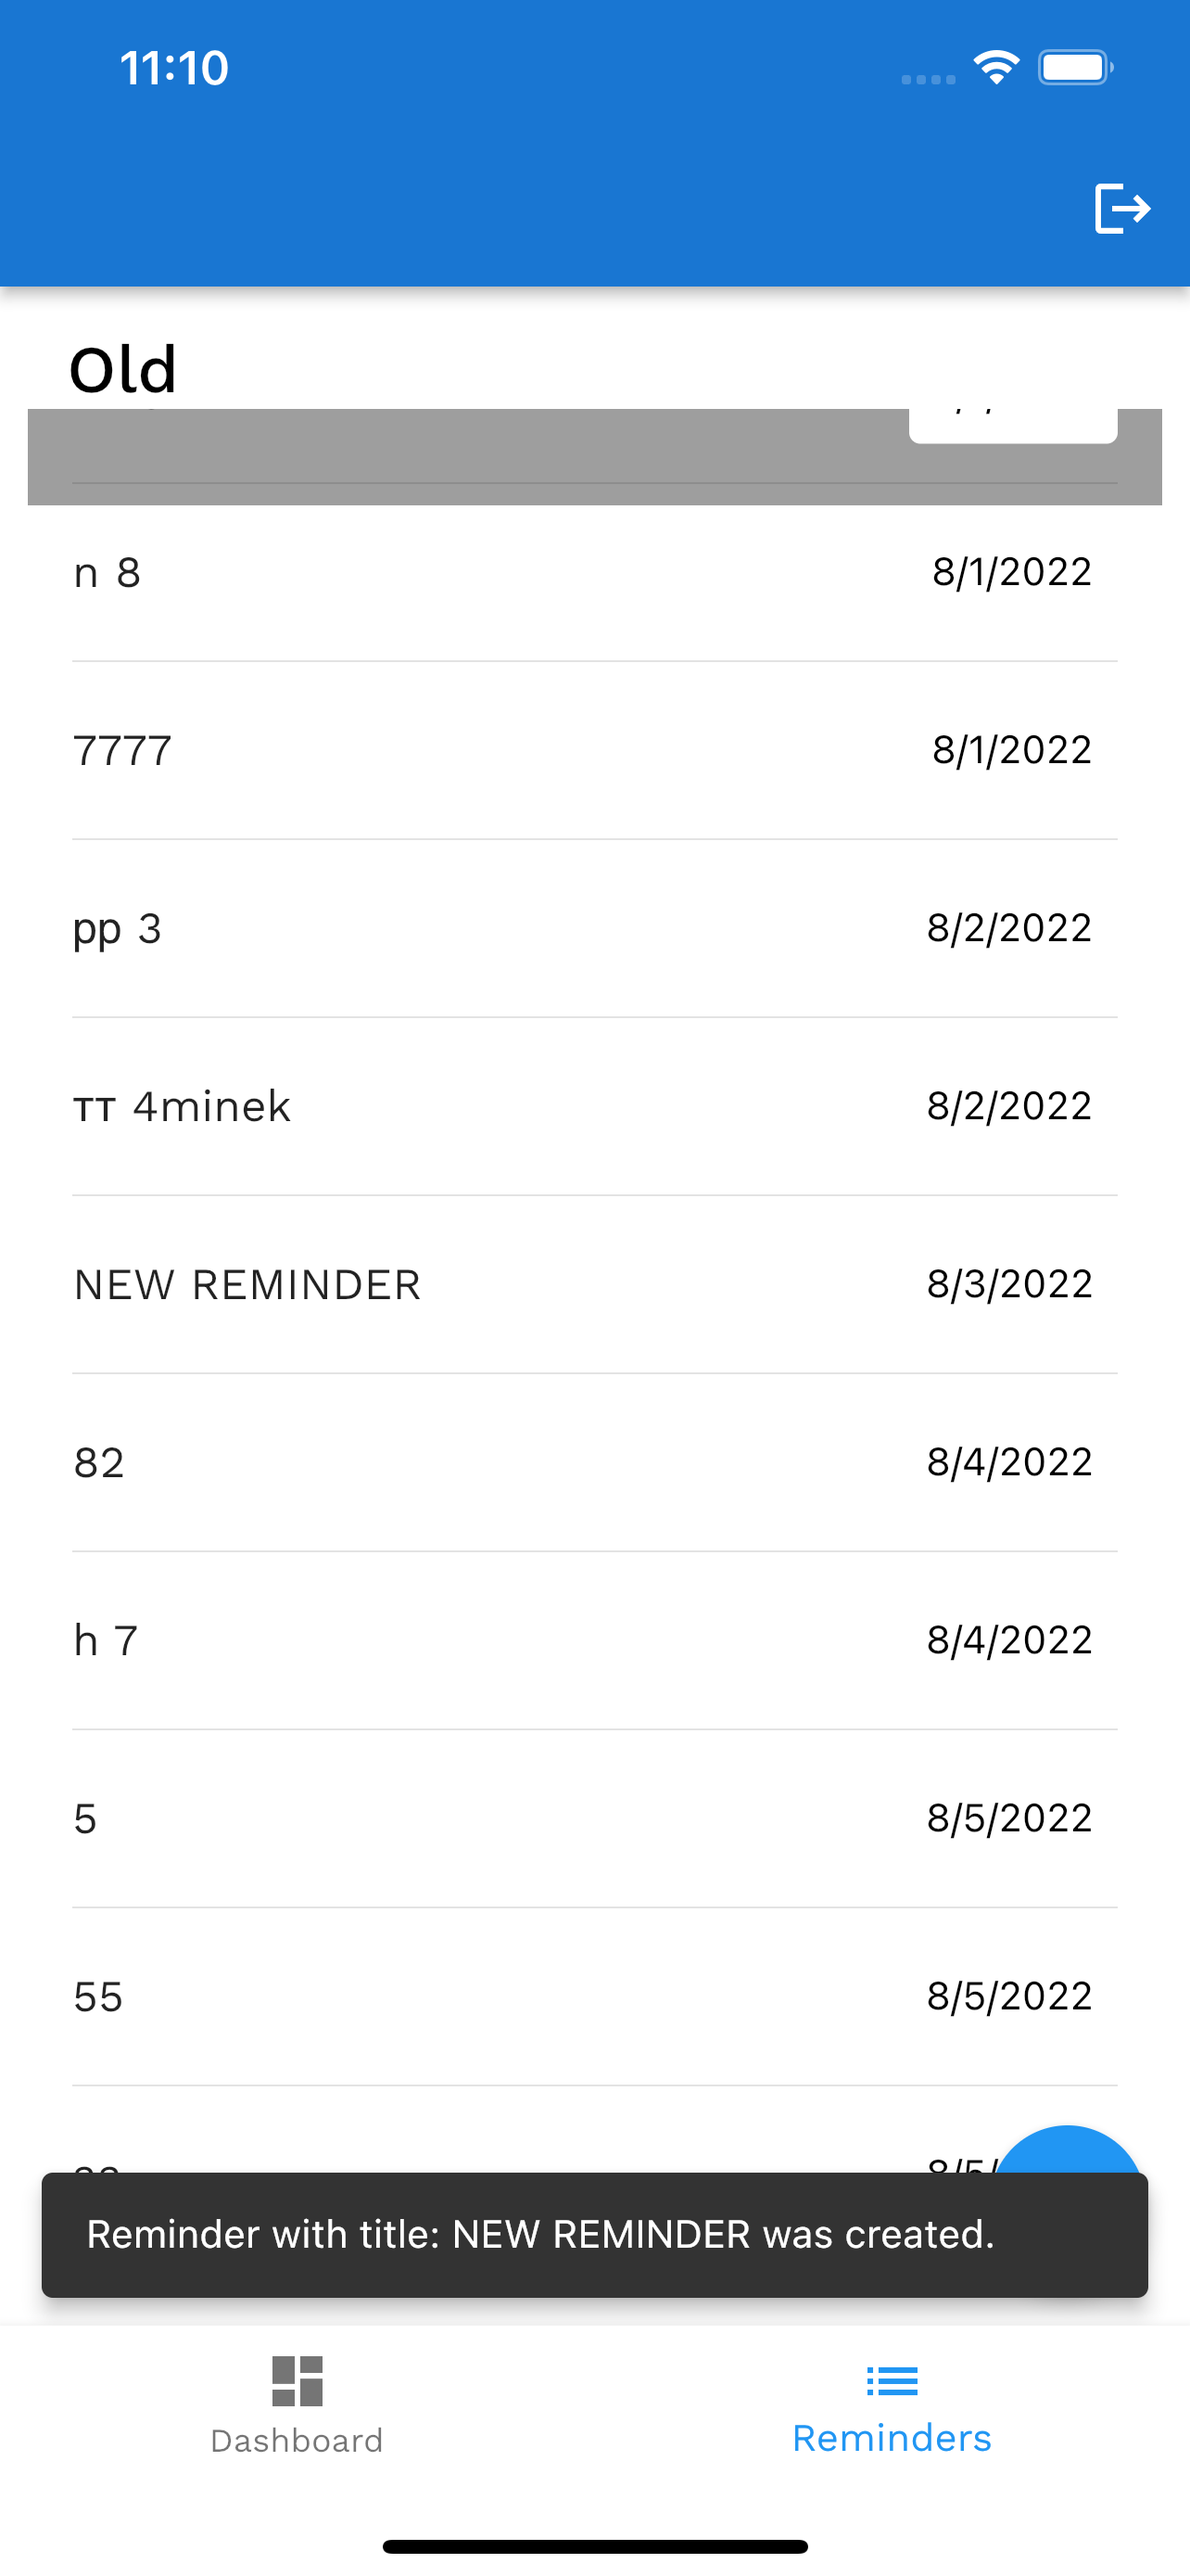
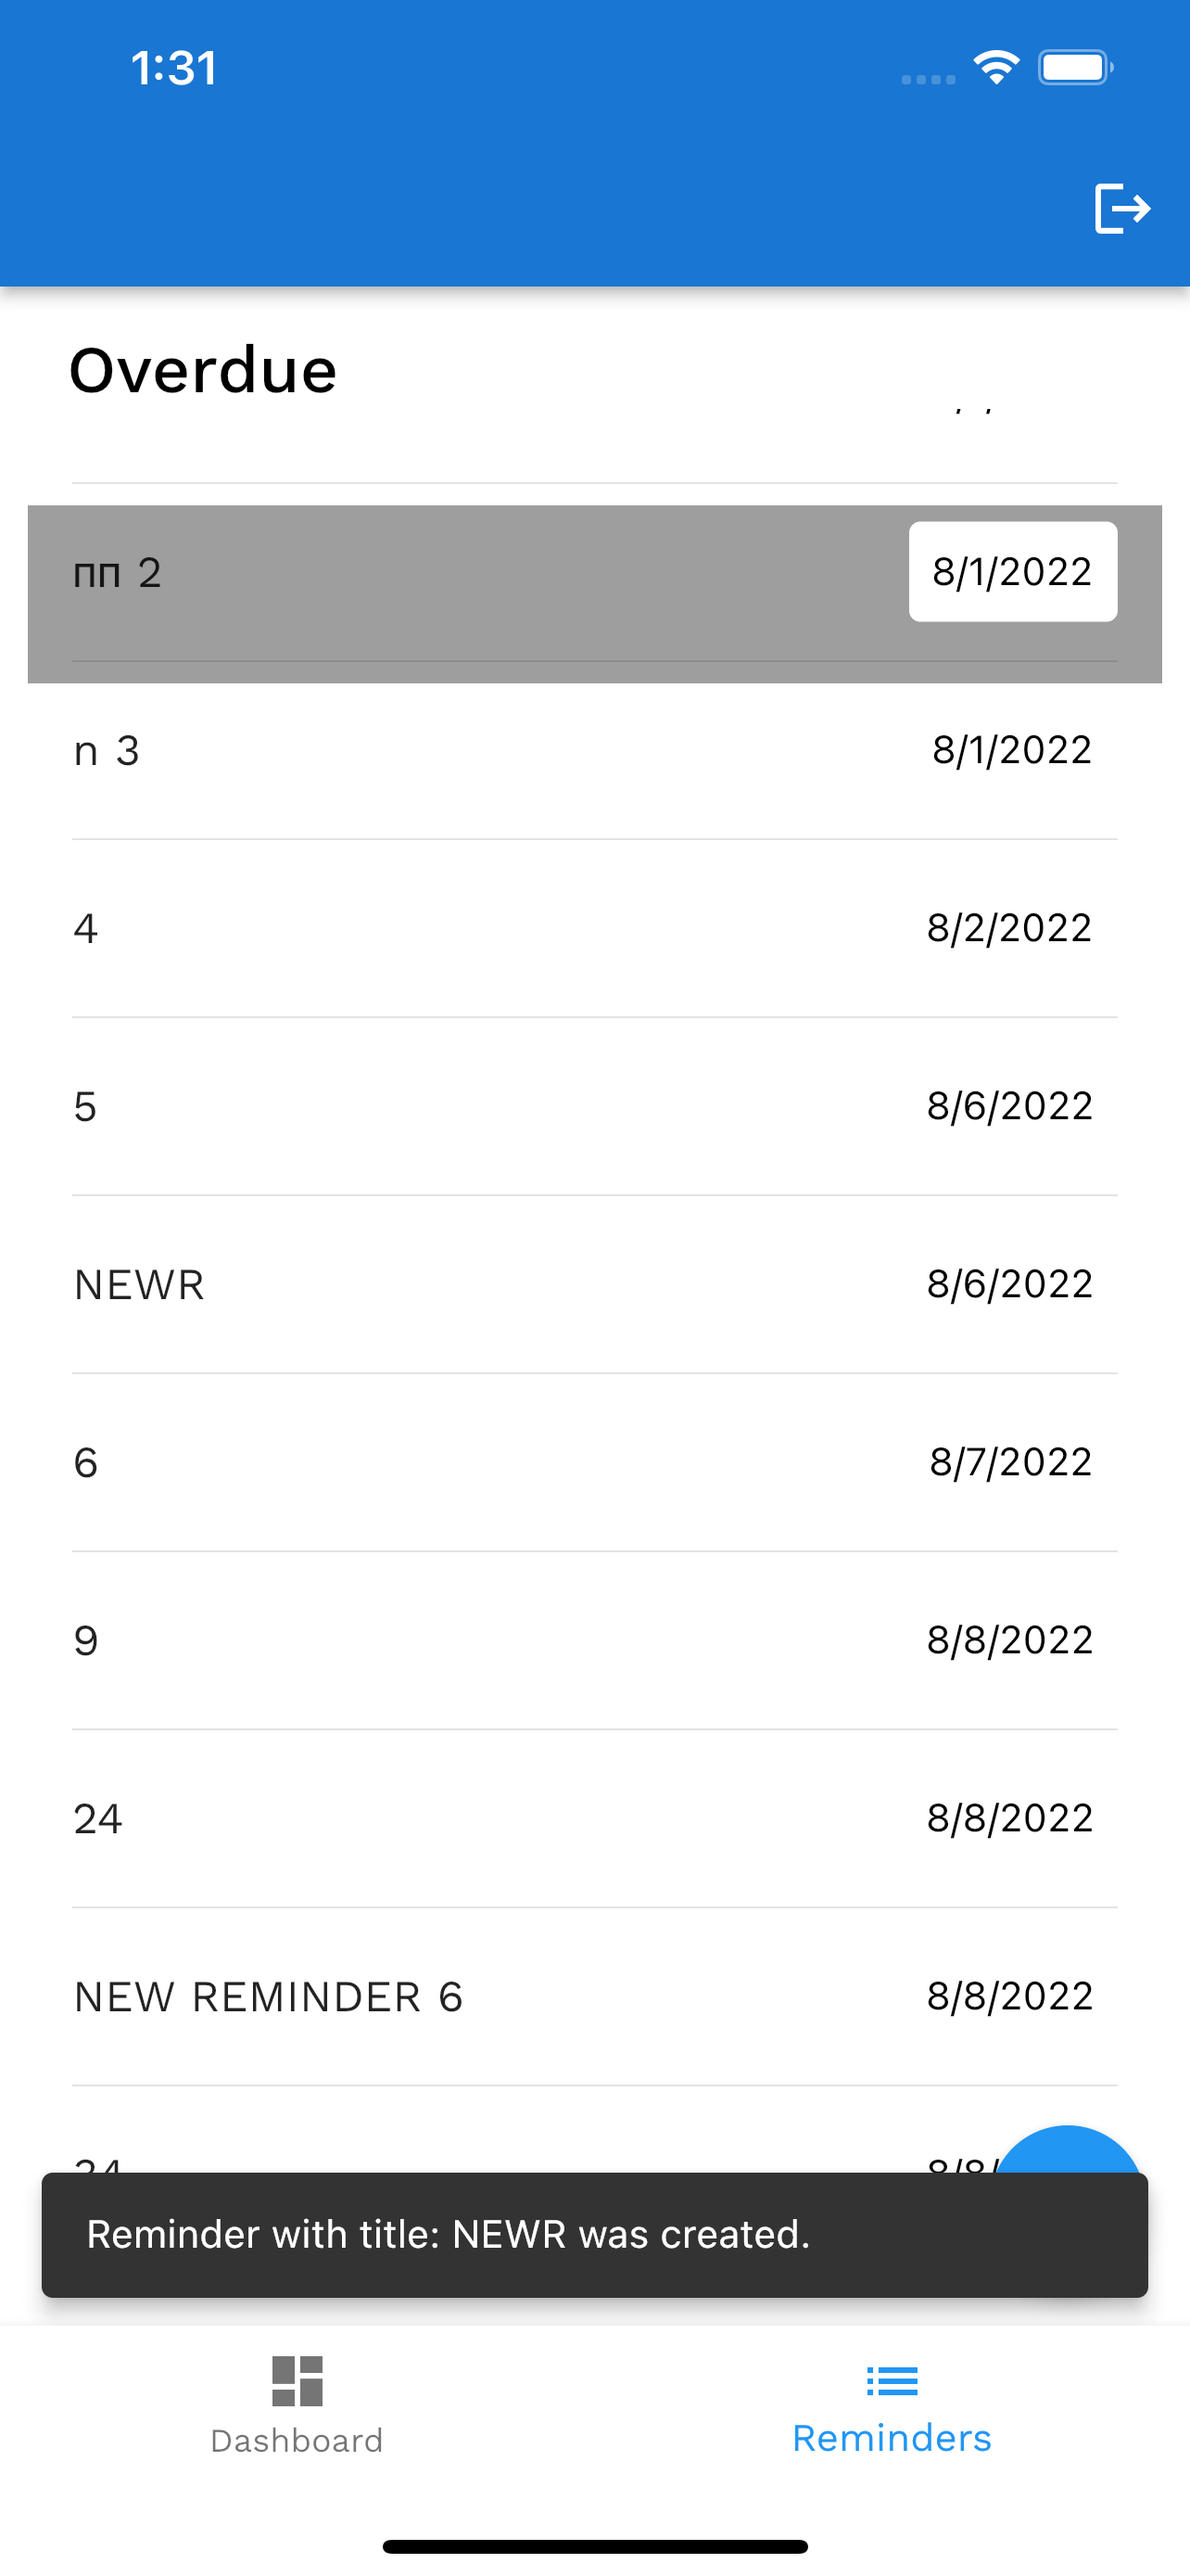
Update the documentation images with the new Overdue group instead of Old group

diff --git a/examples/reminders/lib/feature_reminder_list/ui_components/reminder_list_view.dart b/examples/reminders/lib/feature_reminder_list/ui_components/reminder_list_view.dart
@@ -17,7 +17,9 @@ class ReminderListView extends StatelessWidget {
   Widget build(BuildContext context) => RxPaginatedBuilder<ReminderListBlocType,
           ReminderModel>.withRefreshIndicator(
         state: (bloc) => bloc.states.paginatedList,
-        onBottomScrolled: (bloc) => bloc.events.loadPage(),
+        onBottomScrolled: (bloc) {
+          print('TTTTTT');
+          return bloc.events.loadPage();},
         onRefresh: (bloc) async {
           bloc.events.loadPage(reset: true);
           return bloc.states.refreshDone;

diff --git a/examples/reminders/app_spec.md b/examples/reminders/app_spec.md
@@ -86,7 +86,7 @@ This is a user application specification of the reminders sample app.
 
   - When the page is loaded for the first time, a circular loading indicator is displayed in the middle of the screen.
   - When the page is loaded for the first time, the first 10 reminders in the reminders list are fetched. There is pagination on the list with a size of 10 of each page. The list is filtered by due date descending.
-  - There are 4 groups of reminders on the page according to their due date: 'Old', 'Today', 'This month', 'This year'. 'Old' has all reminders before today, 'Today' has all reminders from today, 'This month' has all reminders from tomorrow until the end of the current month and 'This year' has all reminders from the beginning of the next month until the end of the year.
+  - There are 4 groups of reminders on the page according to their due date: 'Overdue', 'Today', 'This month', 'This year'. 'Overdue' has all reminders before today, 'Today' has all reminders from today, 'This month' has all reminders from tomorrow until the end of the current month and 'This year' has all reminders from the beginning of the next month until the end of the year.
 
 ### Pull To Refresh Reminder List Page
 
